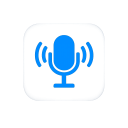
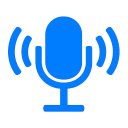
v0.1.1 (#2)
* Bump version to 0.1.1 in package.json and package-lock.json

* Add ESLint configuration for TypeScript support

* Fix regex escape sequences in PowerShell script for phrase matching

* docs: add AGENTS.md for project documentation and guidelines

* fix: update display name and description in package.json for clarity

* fix: update icon.png to improve visual representation

* chore: update CHANGELOG.md to reflect recent changes and improvements

* docs: update README, CHANGELOG, and metadata for v0.1.1

* Remove GitHub badge from README

* fix: improve error handling in onWakeWordDetected function

Changed region(s): [[0.0625, 0.125, 0.9375, 0.875], [0.7812, 0.7188, 0.8125, 0.75], [0.75, 0.1875, 0.7812, 0.2188]]

diff --git a/src/speechEngine.ts b/src/speechEngine.ts
@@ -203,7 +203,7 @@ try {
     $phrasePrefix = @{}
     foreach ($p in $phrases) {
         # Pick the longest word as the keyword (skips filler like "hey")
-        $keyword = ($p -split '\s+') | Sort-Object Length -Descending | Select-Object -First 1
+        $keyword = ($p -split '\\s+') | Sort-Object Length -Descending | Select-Object -First 1
         $phrasePrefix[$p] = $keyword.ToLower().Substring(0, [Math]::Min(2, $keyword.Length))
     }
 
@@ -219,7 +219,7 @@ try {
             $result = $engine.Recognize([TimeSpan]::FromSeconds(5))
             if ($result -ne $null -and $result.Confidence -ge 0.3) {
                 $text = $result.Text.ToLower()
-                $recWords = $text -split '\s+'
+                $recWords = $text -split '\\s+'
                 $found = $false
                 foreach ($p in $phrases) {
                     $prefix = $phrasePrefix[$p]

diff --git a/src/extension.ts b/src/extension.ts
@@ -224,13 +224,14 @@ async function onWakeWordDetected(phrase: WakePhrase) {
   // Fire the target command
   try {
     await vscode.commands.executeCommand(phrase.command);
-  } catch (err: any) {
+  } catch (err: unknown) {
     console.error(
       `[Wake Word] Failed to execute command "${phrase.command}":`,
       err
     );
+    const message = err instanceof Error ? err.message : String(err);
     vscode.window.showErrorMessage(
-      `Wake Word: Could not execute "${phrase.command}" -- ${err.message}`
+      `Wake Word: Could not execute "${phrase.command}" -- ${message}`
     );
     resumeListening();
     return;

diff --git a/CHANGELOG.md b/CHANGELOG.md
@@ -1,16 +1,82 @@
+<!-- markdownlint-disable MD024 -->
 # Changelog
 
-## 0.1.0
+All notable changes to this project will be documented in this file.
 
-- Initial release
-- Zero-config wake word detection: no API keys, no accounts, no system dependencies
-- Local speech recognition via Windows built-in `System.Speech.Recognition` engine
-- Multi-phrase routing: map any spoken English phrase to any VS Code command
-- Default routes for "Hey Claude", "Hey Copilot", and "Computer" out of the box
-- Mic handoff: pauses wake word listening and releases the mic when an assistant is triggered
-- Automatic resume after configurable cooldown period
-- First-run consent flow with clear microphone usage disclosure
-- Status bar indicator with listening state
-- Auto-start on VS Code launch (after consent)
-- Windows 10/11 supported; macOS and Linux planned for a future release
-- Published to VS Code Marketplace and Open VSX Registry
+The format is based on [Keep a Changelog](https://keepachangelog.com/en/1.0.0/)
+and this project adheres to [Semantic Versioning](https://semver.org/spec/v2.0.0.html).
+
+---
+
+## [Unreleased]
+
+### Added
+<!-- Add new features here -->
+
+### Changed
+<!-- Add changed behavior here -->
+
+### Fixed
+<!-- Add bug fixes here -->
+
+### Removed
+<!-- Add removals/deprecations here -->
+
+---
+
+## [0.1.1] - 2026-03-05
+
+### Added
+
+- AGENTS.md with project conventions, commands, architecture, and boundaries for AI coding agents.
+- ESLint configuration (.eslintrc.json) with TypeScript support.
+- CHANGELOG now follows Keep a Changelog format with semantic versioning.
+
+### Changed
+
+- Updated extension display name to "Wake Word".
+- Updated extension description to "Voice control for VS Code with customizable wake word. Fully local, zero config."
+- Updated extension icon to fill the full 128x128 frame with dark background.
+- Bumped `@typescript-eslint/parser` and `@typescript-eslint/eslint-plugin` from ^6.18.0 to ^8.56.1.
+- Activation event changed from `onStartup` to `onStartupFinished` for deferred loading.
+- Auto-start now deferred by 1 second to allow VS Code to finish initialising.
+- Consent dialog no longer disables `enableOnStartup` when dismissed.
+- Configuration change listener now only restarts the engine when `wakeWord.routes` changes, not all settings.
+
+### Fixed
+
+- PowerShell injection vulnerability: switched from double-quoted to single-quoted strings for user-provided phrases in generated PowerShell script.
+- `executeCommand` is now properly awaited with correct error handling for async failures.
+- Removed premature `isActive = true` assignment in `resumeListening()` -- state is now set by the "started" event handler.
+- Removed duplicate `setStatusBar("handed-off")` call on wake word detection.
+- Added concurrency guard (`isStarting` flag) to prevent multiple consent dialogs.
+- `stop()` no longer emits "stopped" when already stopped.
+- `resume()` no longer clears paused state prematurely -- defers to "started" event.
+- Added `dispose()` method to SpeechEngine for proper event listener cleanup on deactivation.
+- Added route validation to filter out entries with empty phrase, label, or command.
+- Fixed unnecessary escape character warnings in PowerShell split patterns.
+- Fixed `catch (err: any)` to use `catch (err: unknown)` with proper type narrowing.
+- Buffered stderr to handle PowerShell CLIXML chunked output, parsed on process exit.
+- Added `_killedIntentionally` flag to suppress spurious error messages from intentional process kills.
+- Removed dead `customText` parameter from `setStatusBar()`.
+
+---
+
+## [0.1.0] - 2026-03-04
+
+### Added
+
+- Initial release.
+- Zero-config wake word detection: no API keys, no accounts, no model downloads.
+- Local speech recognition via Windows built-in `System.Speech.Recognition` engine.
+- Multi-phrase routing: map any spoken English phrase to any VS Code command.
+- Default routes for "Hey Claude", "Hey Copilot", and "Computer" out of the box.
+- Mic handoff: pauses wake word listening and releases the mic when an assistant is triggered.
+- Automatic resume after configurable cooldown period.
+- First-run consent flow with clear microphone usage disclosure.
+- Status bar indicator with listening state.
+- Auto-start on VS Code launch (after consent).
+- Windows 10/11 supported; macOS and Linux planned for a future release.
+- Published to VS Code Marketplace and Open VSX Registry.
+
+---

diff --git a/AGENTS.md b/AGENTS.md
@@ -1,0 +1,88 @@
+# Wake Word - VS Code Extension
+
+## Commands
+
+```bash
+npm install                # Install dependencies
+npm run compile            # Build TypeScript to dist/
+npm run watch              # Build in watch mode
+npm run lint               # Run ESLint (report only). Do not use --fix.
+npm run package            # Build .vsix package
+```
+
+Run `npm run lint` and `npm run compile` before committing. Both must pass cleanly.
+
+Press F5 in VS Code to launch the Extension Development Host for manual testing.
+
+## Project Structure
+
+```text
+wake-word/
+  src/
+    extension.ts       # VS Code extension entry point, commands, status bar, consent flow
+    speechEngine.ts    # SpeechEngine class, spawns PowerShell, manages mic lifecycle
+  dist/                # Compiled JS output (do not edit)
+  .github/workflows/
+    release.yml        # CI: build .vsix, publish to Marketplace and Open VSX
+```
+
+Two source files. `extension.ts` owns all VS Code API interactions. `speechEngine.ts` owns the PowerShell child process and speech recognition. Keep this separation clean.
+
+## Architecture
+
+The extension spawns a background PowerShell process using Windows `System.Speech.Recognition`. The process writes `READY` and `DETECTED:<phrase>` to stdout. The extension reads stdout, matches phrases, and fires VS Code commands.
+
+On wake word detection, the PowerShell process is killed to release the microphone (handoff), then respawned after a cooldown. This ensures only one thing uses the mic at a time.
+
+**IMPORTANT**: The PowerShell process must use Windows PowerShell (`System32\WindowsPowerShell\v1.0\powershell.exe`), not PowerShell Core (`pwsh`). `System.Speech` is not available in PowerShell Core.
+
+## Conventions
+
+- TypeScript strict mode is enabled.
+- Zero runtime npm dependencies. Do not add any.
+- All speech processing must remain local. No network calls for audio or recognition.
+- Use single-quoted strings in generated PowerShell to prevent injection. Never use double-quoted strings for user-provided phrases.
+- Keep the extension under the `analytics-in-motion` publisher namespace.
+
+## Changelog
+
+Update CHANGELOG.md in [Keep a Changelog](https://keepachangelog.com/en/1.0.0/) format.
+
+Sections: Added, Changed, Fixed, Deprecated, Security.
+
+Use semantic versioning bumps. Commit changelog updates as `docs(changelog): update for vX.Y.Z`.
+
+## Git Workflow
+
+- `main` branch is what's published to the Marketplace. Keep it release-ready.
+- Develop on feature branches, merge to `main` for releases.
+- Commit message format: `type(scope): description` (e.g. `fix(speech): escape single quotes in phrases`).
+- Tag releases as `vX.Y.Z`. Creating a GitHub release triggers the CI workflow.
+
+## Testing
+
+No test framework is configured yet. When adding tests, use a framework compatible with the VS Code extension testing API.
+
+Manual testing checklist:
+
+1. F5 to launch Extension Development Host
+2. Consent dialog appears on first run
+3. Status bar shows "Wake: Listening" after consent
+4. Say a wake phrase, confirm detection notification appears
+5. Status bar transitions to "Wake: Active" during handoff
+6. Status bar returns to "Wake: Listening" after cooldown
+7. Toggle, enable, disable, and reset consent commands all work
+
+## Boundaries
+
+**NEVER** add runtime npm dependencies. The extension must remain zero-dependency.
+
+**NEVER** send audio data over the network. All recognition is local.
+
+**NEVER** use PowerShell double-quoted strings for user-provided content (injection risk).
+
+**NEVER** modify the ATTRIBUTION.md protocol frontmatter without explicit instruction.
+
+## Attribution
+
+This repository participates in the AI Attribution Protocol. See ATTRIBUTION.md for reciprocity guidelines.

diff --git a/README.md b/README.md
@@ -1,6 +1,30 @@
-# Wake Word - Voice Activation for VS Code
+<!-- markdownlint-disable MD033 MD041 -->
 
-Hands-free voice activation for VS Code. Say a wake phrase and the right AI assistant opens -- no clicking required.
+<h1 align="center">
+  <br>
+  <img src="icon.png" width="96" height="96" alt="Wake Word icon">
+  <br>
+  Wake Word
+</h1>
+<h3 align="center">Voice Activation for VS Code</h3>
+
+<!-- badges: start -->
+<div align="center">
+  <table>
+    <tr>
+      <td><strong>Meta</strong></td>
+      <td>
+        <a href="https://marketplace.visualstudio.com/items?itemName=analytics-in-motion.wake-word"><img src="https://img.shields.io/visual-studio-marketplace/v/analytics-in-motion.wake-word?label=Marketplace&color=blue" alt="VS Code Marketplace version"></a>&nbsp;
+        <a href="https://open-vsx.org/extension/analytics-in-motion/wake-word"><img src="https://img.shields.io/open-vsx/v/analytics-in-motion/wake-word?label=Open%20VSX&color=blue" alt="Open VSX version"></a>&nbsp;
+        <a href="https://marketplace.visualstudio.com/items?itemName=analytics-in-motion.wake-word"><img src="https://img.shields.io/visual-studio-marketplace/i/analytics-in-motion.wake-word?label=Installs&color=blue" alt="VS Code Marketplace installs"></a>&nbsp;
+        <a href="https://github.com/analyticsinmotion/wake-word/blob/main/LICENSE"><img src="https://img.shields.io/badge/License-Apache_2.0-blue.svg" alt="Apache 2.0 License"></a>&nbsp;
+      </td>
+    </tr>
+  </table>
+</div>
+<!-- badges: end -->
+
+Say a wake phrase and the right AI assistant opens -- no clicking required.
 
 Say **"Hey Claude"** and Claude opens. Say **"Hey Copilot"** and Copilot opens. Say **"Computer"** and the terminal focuses. The extension handles the routing, pauses its own mic so the assistant can use it, then resumes listening when the voice session ends.
 
@@ -173,29 +197,6 @@ All speech recognition runs locally via Windows built-in `System.Speech.Recognit
 | Cursor | Open VSX or .vsix from GitHub Releases |
 | Windsurf | Open VSX or .vsix from GitHub Releases |
 | Other VS Code forks | .vsix from GitHub Releases |
-
-## Development
-
-```bash
-git clone https://github.com/analyticsinmotion/wake-word.git
-cd wake-word
-npm install
-npm run compile
-# Press F5 in VS Code to launch the extension in a dev host
-```
-
-### Publishing
-
-Automated via GitHub Actions. Create a release on GitHub and the workflow will:
-
-1. Build and package a `.vsix` file (attached to the release)
-2. Publish to the VS Code Marketplace
-3. Publish to the Open VSX Registry
-
-Required repository secrets:
-
-- `VSCE_PAT` -- VS Code Marketplace token ([create here](https://dev.azure.com))
-- `OVSX_PAT` -- Open VSX token ([create here](https://open-vsx.org))
 
 ## License
 
